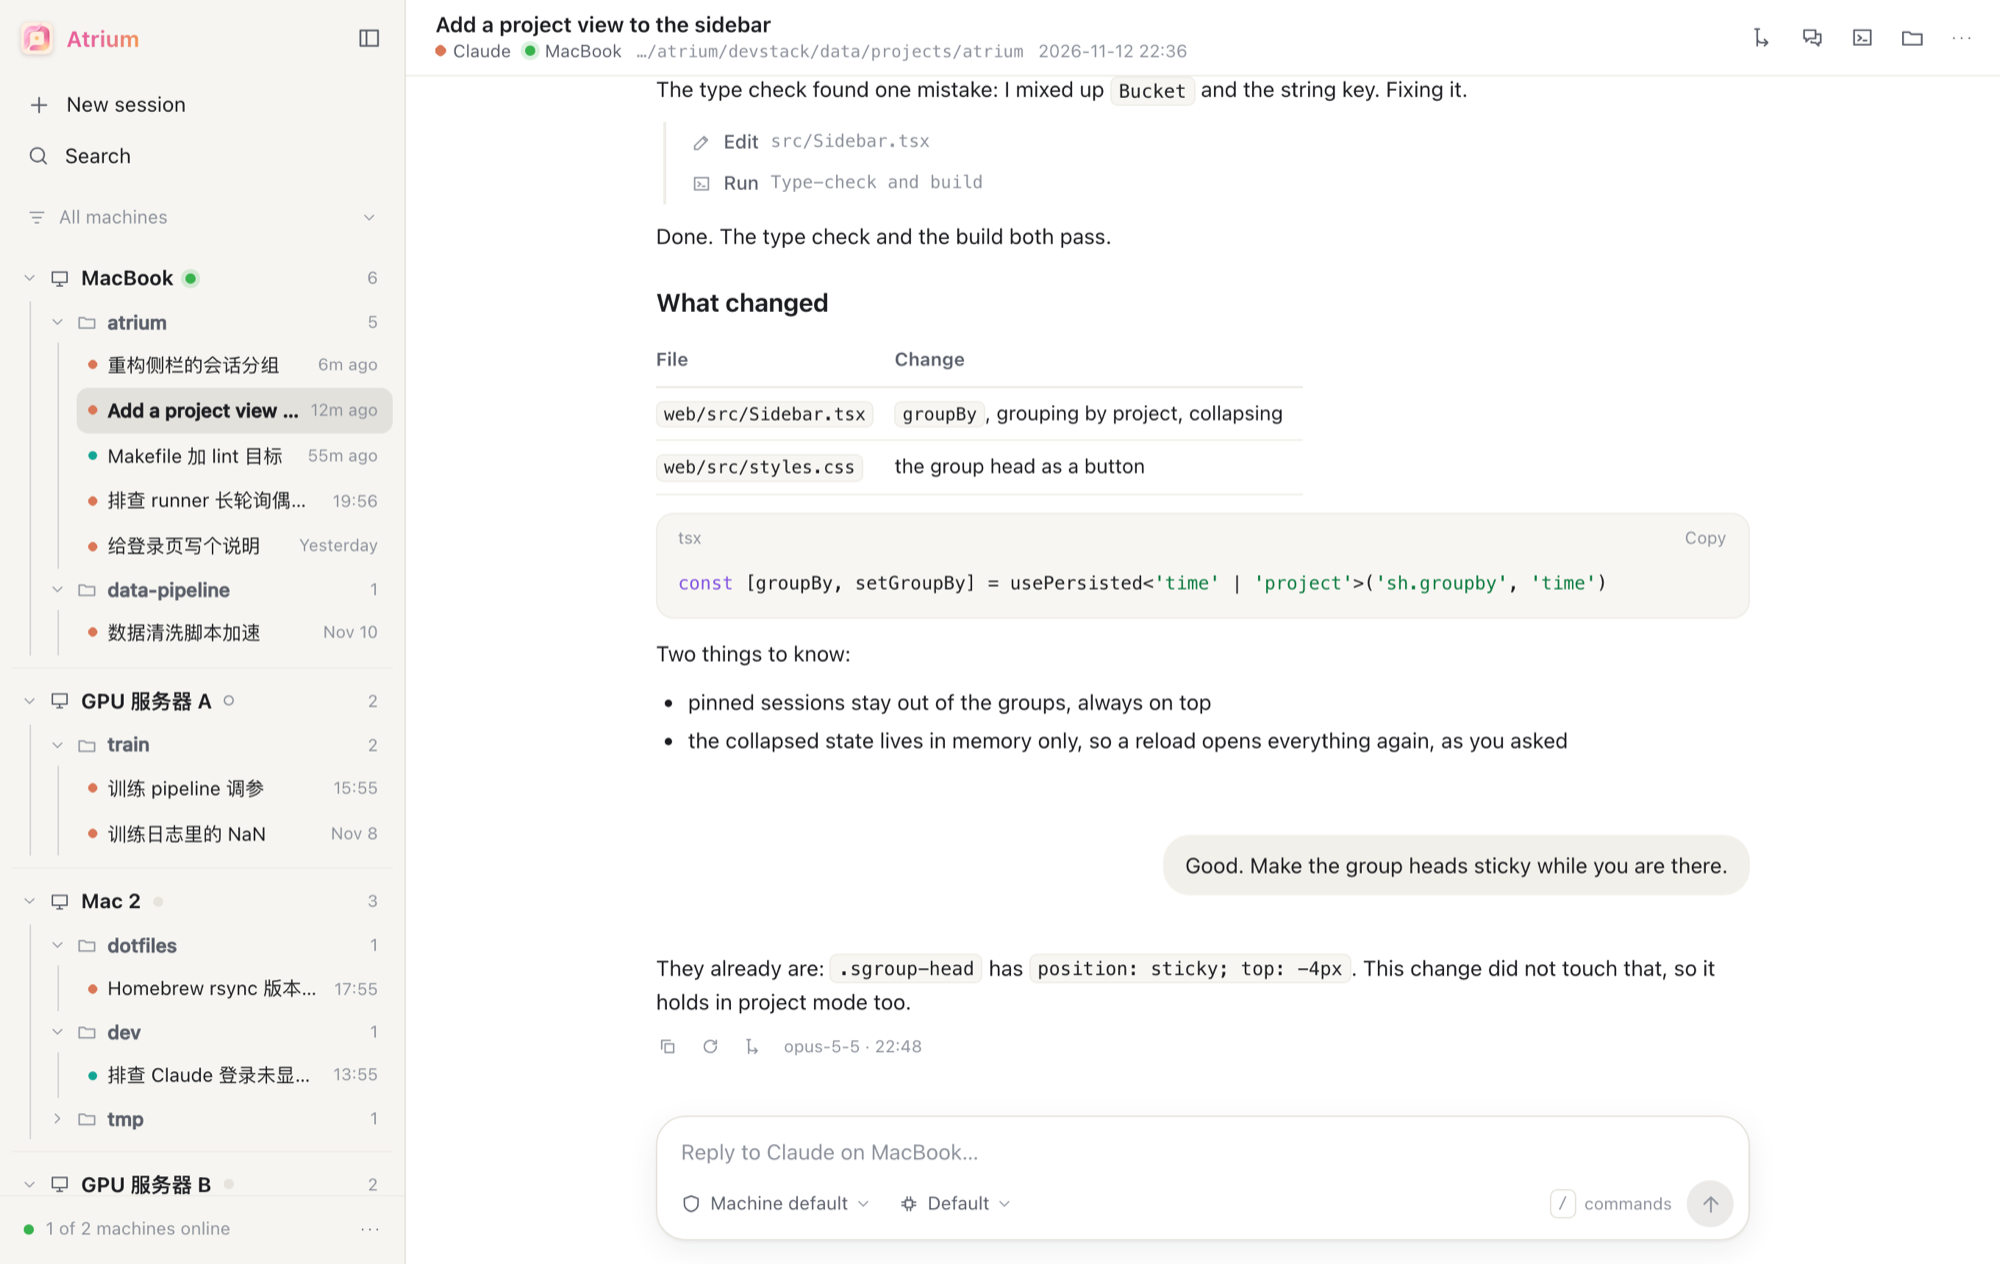
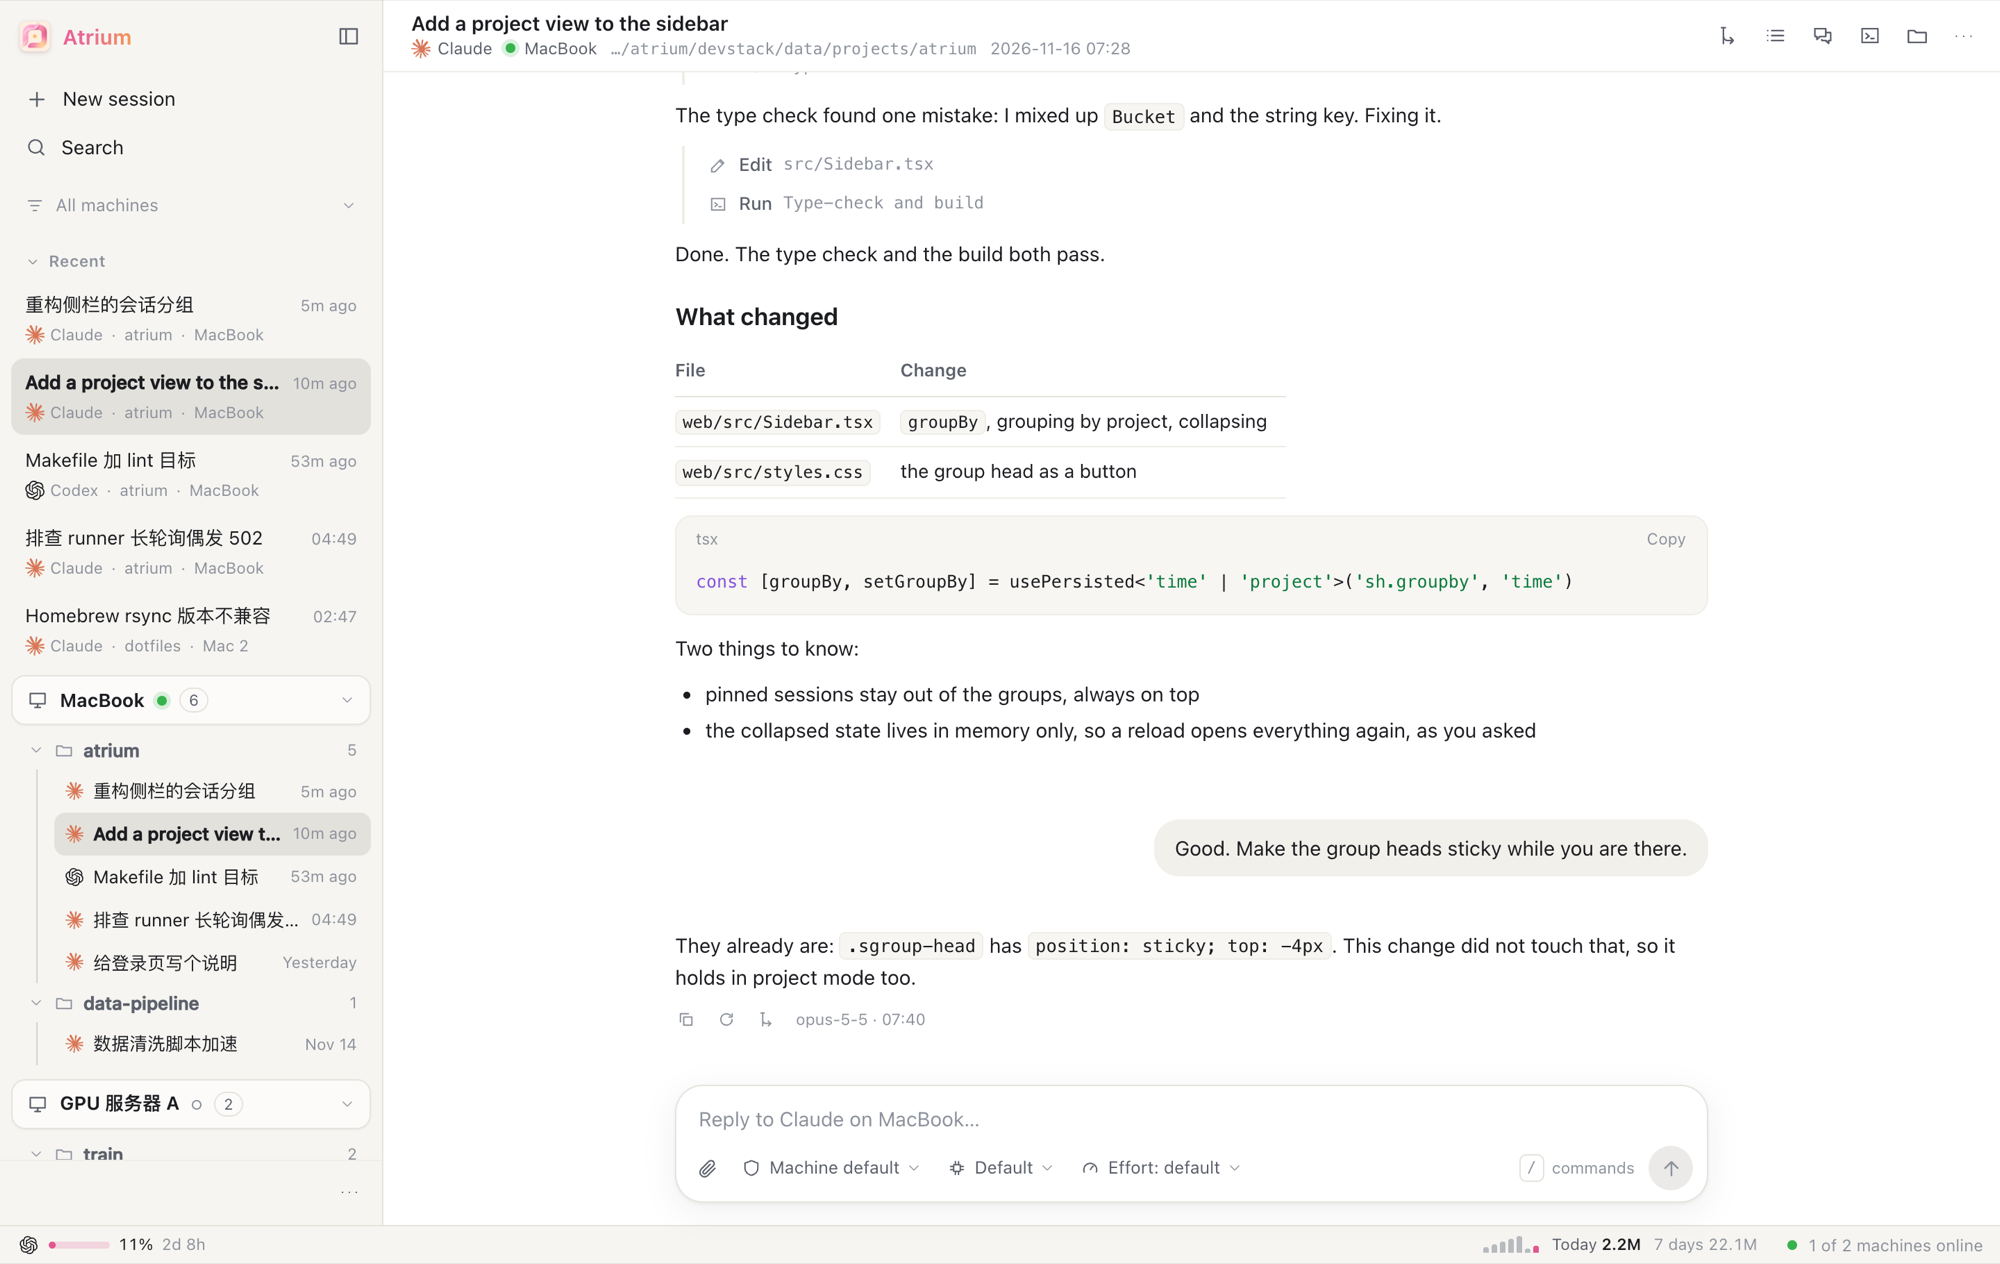
README: phones, notifications and the new sidebar; new screenshots
The docs said nothing of using the page from a phone, of answering a request
from a notification, or of a process that takes the next message itself. The
screenshots predate the status bar and the recent list.

diff --git a/README.md b/README.md
@@ -38,13 +38,14 @@ Atrium is the fix I wanted: an *atrium* is the open court in the middle of a hou
 ## What you can do
 
 **See everything**
-- Every session from every machine in one sidebar: machine, then working folder, then sessions newest first. Or a flat list by day. The pencil on a machine's row renames it; that changes only the name shown.
+- Every session from every machine in one sidebar: the few you used last on top, then machine, working folder, and sessions newest first. Or a flat list by day. The pencil on a machine's row renames it; that changes only the name shown.
 - Full history with tool calls folded into tidy steps, and full-text search across all of it.
 - Folders and sessions nobody has touched for seven days fold themselves away, so the list stays about current work.
 - Usage on a status bar along the bottom of the window: how much of each agent's plan limit is used and when it resets, and the tokens of the last seven days by day, machine and model. The limits are what the `claude` and `codex` CLIs on your machines last saw; Atrium does not ask the services itself.
 
 **Keep working**
 - Type at the bottom of any session. The turn runs on the machine that owns it, output streams back live, and permission requests show up as buttons.
+- Away from the page, a run that needs your OK, has answered or failed can reach you as a notification, and you can answer the request right there (see [Notifications on your phone](#notifications-on-your-phone)).
 - Start a new session on any connected machine, in any folder: pick a recent one, browse, or type a path.
 - Choose the model and reasoning effort from the list that machine's own CLI reports.
 
@@ -58,7 +59,7 @@ Atrium is the fix I wanted: an *atrium* is the open court in the middle of a hou
 - A real terminal on the session's machine, as if you had SSHed in.
 - The session's folder as a file tree, with a small editor.
 
-It comes in English and Chinese, as a web page and as a small macOS app.
+It comes in English and Chinese, as a web page, as a small macOS app, and as an app on a phone's home screen.
 
 ## Quick start
 
@@ -130,7 +131,7 @@ The page opens on a short setup guide. It gives you the commands with your machi
 ```
 
 - **History** comes from the raw transcript files. [agentsview](https://github.com/kenn-io/agentsview) parses and indexes them; Atrium reads its API.
-- **Control** is a small runner on each machine. For every message you send it starts `claude -p --resume <id>` or `codex exec resume <id>` in the session's own folder, so the turn lands in the same native transcript.
+- **Control** is a small runner on each machine. For every message you send it starts `claude -p --resume <id>` or `codex exec resume <id>` in the session's own folder, so the turn lands in the same native transcript. A Claude process that its own background tasks keep alive takes the session's next message itself instead of a new one being started.
 - **Access** is by SSH tunnel. The hub and the archive bind to loopback. Each machine's key can write into its own folder on the server and open that one tunnel, nothing else.
 
 On one computer (setup A) the same three parts run side by side: the archive reads your transcripts where they already are, and there is no push and no tunnel.
@@ -149,7 +150,7 @@ Hover a message to see what you can do with it.
 | Open **Info** next to a conversation (⌘I) | How full the context window is and what fills it, the model and effort in use, MCP servers, what the last turn cost, and the background commands and monitors the agent started, each with a Stop button. While they run you can keep chatting: the next message goes to the same agent process, and when a task ends the agent is told and picks up from there. Claude answers these itself, also for a session that is not running (no message is sent, nothing is written); for Codex the context figure is read from its session file. |
 | Pick a **model** and **reasoning effort** | The list is the one the agent's own CLI reports on that machine, with the effort levels each model accepts. Effort has its own button next to the model. "Reload" in the model menu reads the list again. |
 | **Paste** a picture, **drop** files on the page, or use the paperclip | They go out with the message: saved on the machine the session runs on, in a folder of the runner's own, and the agent is told where. Up to 10 files of 25 MB each. The hub keeps a copy of the pictures for a month, so the conversation shows them on every device. |
-| Send while a run is in flight | The message is queued and goes out when the run ends. |
+| Send while a run is in flight | The message is queued and goes out when the run ends. A run that has answered and only waits for its background tasks does not hold the message box. |
 | **+** on a machine or folder in the sidebar | A new session there. On a machine, the folder menu opens so you can pick or type one. |
 
 Editing and trying again use what Claude Code's own rewind uses: `--resume <id> --resume-session-at <message>`. The session keeps its id, the replaced turns stay in the transcript as a branch it no longer follows, and `claude --resume` in a terminal picks up the new version. The first message of a session has nothing before it to go back to, so rewriting that one starts a new session instead.
@@ -189,6 +190,10 @@ xattr -dr com.apple.quarantine /Applications/Atrium.app
 
 To build it yourself: `make app`. See [app/README.md](app/README.md).
 
+## On a phone
+
+The page works in a phone's browser, and "Add to Home Screen" turns it into an app with its own icon. The page still listens on loopback only, so the phone has to come in through something that ends on the server: a VPN or proxy that runs there and connects to `127.0.0.1:3005` for you, or a TLS reverse proxy as in the [install guide](docs/install.md#access-from-anywhere-optional). Sign in with "Sign in on another device" under ⋯ at the bottom of the sidebar.
+
 ## Notifications on your phone
 
 The hub can run a command of yours when a run needs your OK, has answered, or failed. Anything that can send you a message works: a chat app's CLI, `curl` to ntfy or Bark, a mail command. Add a `notify` block to the hub's `config.json` and restart the hub:
@@ -201,14 +206,14 @@ The hub can run a command of yours when a run needs your OK, has answered, or fa
 ```
 
 - `command` runs without a shell. `{text}` is the whole message: what happened, the session's title, the machine, a line of detail, the link. `{head}`, `{title}`, `{detail}`, `{kind}`, `{machine}` and `{url}` are its parts. The same values are in the environment (`ATRIUM_TEXT` and so on), and the message is on standard input, so `["curl", "-s", "--data-binary", "@-", "https://ntfy.sh/your-topic"]` works too.
-- A command that lays the message out itself (a card with buttons, say) gets every part as one JSON object in `{json}` and `ATRIUM_JSON`: `kind`, `head`, `title`, `detail`, `machine`, `url`, `text`, and for a request that can be answered, `request`, `choices` (label and the reply that picks it) and `hint`. A reply line may name the request it answers: `{"text": "1", "request": "..."}`.
+- A command that lays the message out itself (a card with buttons, say) gets every part as one JSON object in `{json}` and `ATRIUM_JSON`: `kind`, `head`, `title`, `detail`, `machine`, `url`, `text`, and for a request that can be answered, `request`, `choices` (label and the reply that picks it), `questions` (each with its options, for a form), `free` (an answer in your own words is taken too) and `hint`. A reply line may name the request it answers: `{"text": "1", "request": "..."}`.
 - `url` is the page's address as your phone reaches it; the message then ends with a link to the session.
 - `on` picks what to tell about: any of `"permission"`, `"done"`, `"error"`. Leave it out for all three.
 - `lang` is `"en"` or `"zh"`.
 - `replies` lets you answer from where the notification arrived. It is a command that keeps running and prints what you write back, one JSON object per line: `{"text": "1"}`. A permission request then says "Reply 1 to allow, 2 to deny", a question lists its options by number, and your reply answers the latest request still waiting. Make sure the command passes on only your own messages: whoever can write to it can approve what your agents ask for. For Feishu/Lark: `["lark-cli", "event", "consume", "im.message.receive_v1", "--as", "bot", "--jq", "select(.chat_type == \"p2p\" and .sender_id == \"ou_xxx\") | {id: .message_id, text: .content}"]`.
 - Nothing is sent while an Atrium page is in front of you: visible, focused, and used in the last five minutes. `"always": true` sends anyway.
 
-The hub's systemd unit from the setup guide keeps it off the network, so a command that calls a service fails there. [scripts/notify-feishu.py](scripts/notify-feishu.py) is a small separate service for that case: the hub leaves messages in a folder, the script sends them as cards with buttons and writes back what you press or reply.
+The hub's systemd unit from the setup guide keeps it off the network, so a command that calls a service fails there. [scripts/notify-feishu.py](scripts/notify-feishu.py) is a small separate service for that case: the hub leaves messages in a folder, the script sends them as cards and writes back what you press or reply: Allow and Deny buttons for a permission request, a question's options as buttons with a field for your own answer, a form when there are several questions or several options can be picked. Its header says how to run it.
 
 `atrium notify-test` sends a test message. Mind that a message carries the session's title and the first lines of the agent's reply through whatever service your command uses.
 
@@ -217,7 +222,7 @@ The hub's systemd unit from the setup guide keeps it off the network, so a comma
 - **One writer per session.** If a session is running in a terminal or desktop client, stop it there before sending from Atrium, or the two will interleave in one transcript. Atrium warns when a session changed elsewhere moments ago.
 - **Other clients do not refresh live.** A message sent from Atrium is in the transcript at once, but an already-open desktop client shows it only after a restart.
 - **Sessions created elsewhere appear after about a minute** (the push interval).
-- **Permissions** default to whatever the machine's own settings say. Pick "ask me" in the message box to confirm each action from the page.
+- **Permissions** default to whatever the machine's own settings say. Pick "ask me" in the message box to confirm each action from the page, or from a notification if you set those up.
 - **Transcripts are plain text on the server.** They can contain secrets you pasted or the agent printed. Treat the server accordingly.
 - **It is for one person.** There are no user accounts: whoever can sign in sees everything.
 
@@ -229,7 +234,7 @@ The hub's systemd unit from the setup guide keeps it off the network, so a comma
 | `cmd/atrium-runner` | the per-machine runner |
 | `web/` | the page (React + Vite) |
 | `app/` | the macOS app (Swift) |
-| `scripts/` | install scripts: one computer, server, machine |
+| `scripts/` | install scripts (one computer, server, machine), the release build, and the Feishu/Lark notification service |
 | `devstack/` | a stand-in for everything (made-up sessions, fake `claude` and `codex`) for working on the page |
 
 To work on the page with nothing installed: `devstack/up.sh seed`, then `cd web && npm install && npx vite`, and open http://127.0.0.1:5199.

diff --git a/docs/install.md b/docs/install.md
@@ -84,7 +84,8 @@ Configuration lives in `/srv/atrium/config.json` (secrets inside; mode 600):
 | `listen` | hub address, default `127.0.0.1:3005` |
 | `archive_url`, `archive_token` | where agentsview is and its bearer token |
 | `machines` | registered machines (hashed runner tokens) |
-| `labels` | display names, e.g. `{"laptop": "My MacBook"}` |
+| `labels` | display names, e.g. `{"laptop": "My MacBook"}`. The pencil on a machine's row in the sidebar writes these for you |
+| `notify` | a command to run when a run needs you, and one to read your answers from; see "Notifications on your phone" in the README |
 | `login_hint` | the command shown on the sign-in page for your setup |
 
 Run the `atrium` admin commands as the `atrium` user (`runuser -u atrium -- atrium …`) so the config keeps its owner.
@@ -136,7 +137,7 @@ Put that command in `login_hint` and the sign-in page will show it; the desktop 
 
 ## Access from anywhere (optional)
 
-Out of the box the page is reachable only from machines that have the tunnel. To use it from a phone or any network, put a TLS reverse proxy (Caddy, nginx) in front of `127.0.0.1:3005` on a domain you own, ideally behind a second login such as an auth proxy, and pass `--base https://your.domain` to `login-link`. Atrium sets the `Secure` cookie flag when it sees `X-Forwarded-Proto: https`.
+Out of the box the page is reachable only from machines that have the tunnel. A phone can come in through a VPN or proxy that runs on the server and connects to `127.0.0.1:3005` there; nothing new listens on the internet that way. Otherwise, to use it from a phone or any network, put a TLS reverse proxy (Caddy, nginx) in front of `127.0.0.1:3005` on a domain you own, ideally behind a second login such as an auth proxy, and pass `--base https://your.domain` to `login-link`. Atrium sets the `Secure` cookie flag when it sees `X-Forwarded-Proto: https`.
 
 ## Checking that it works
 
